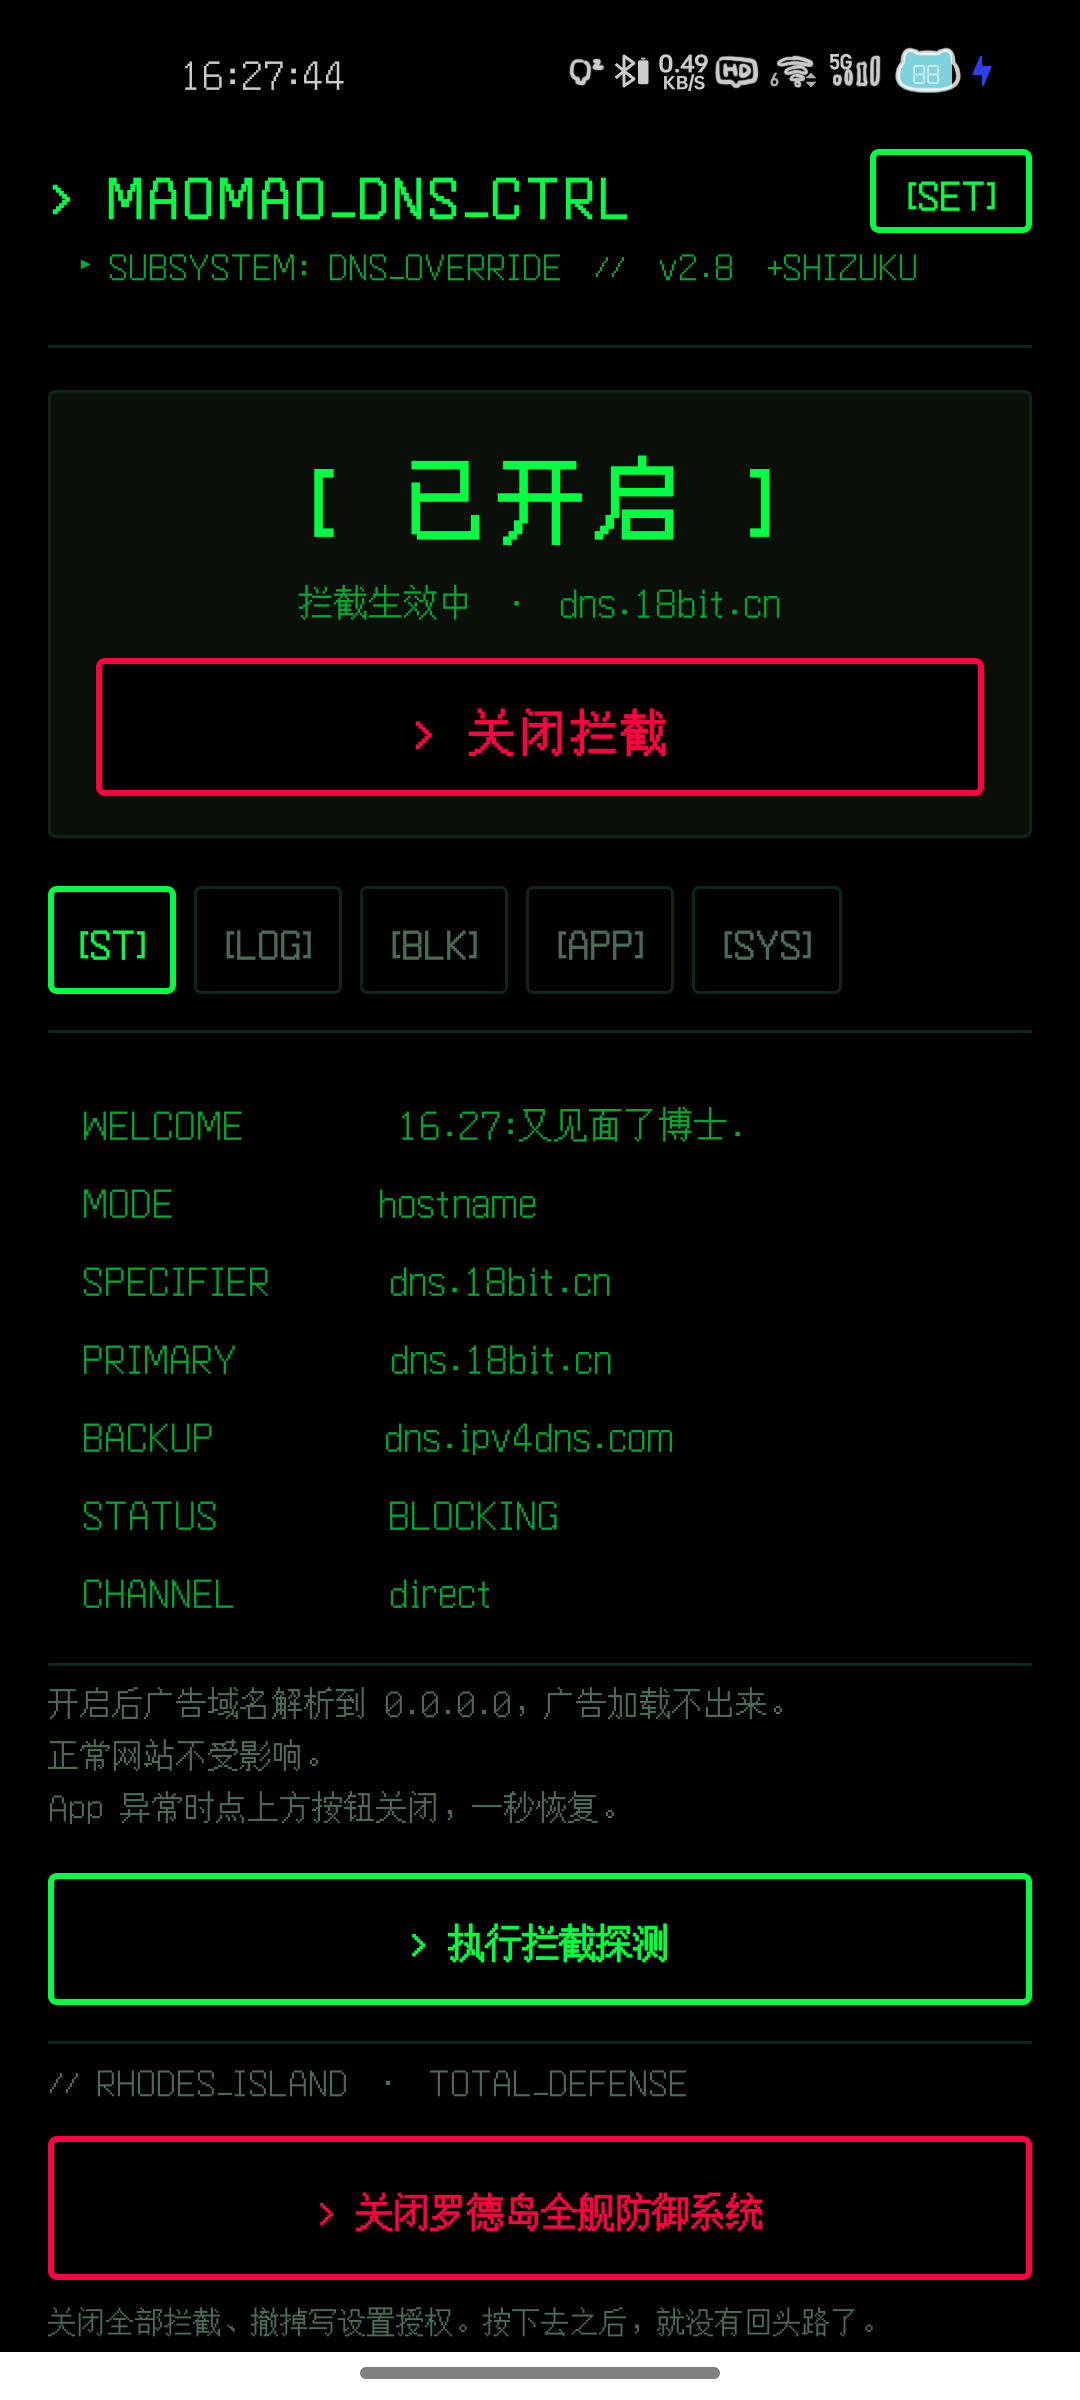
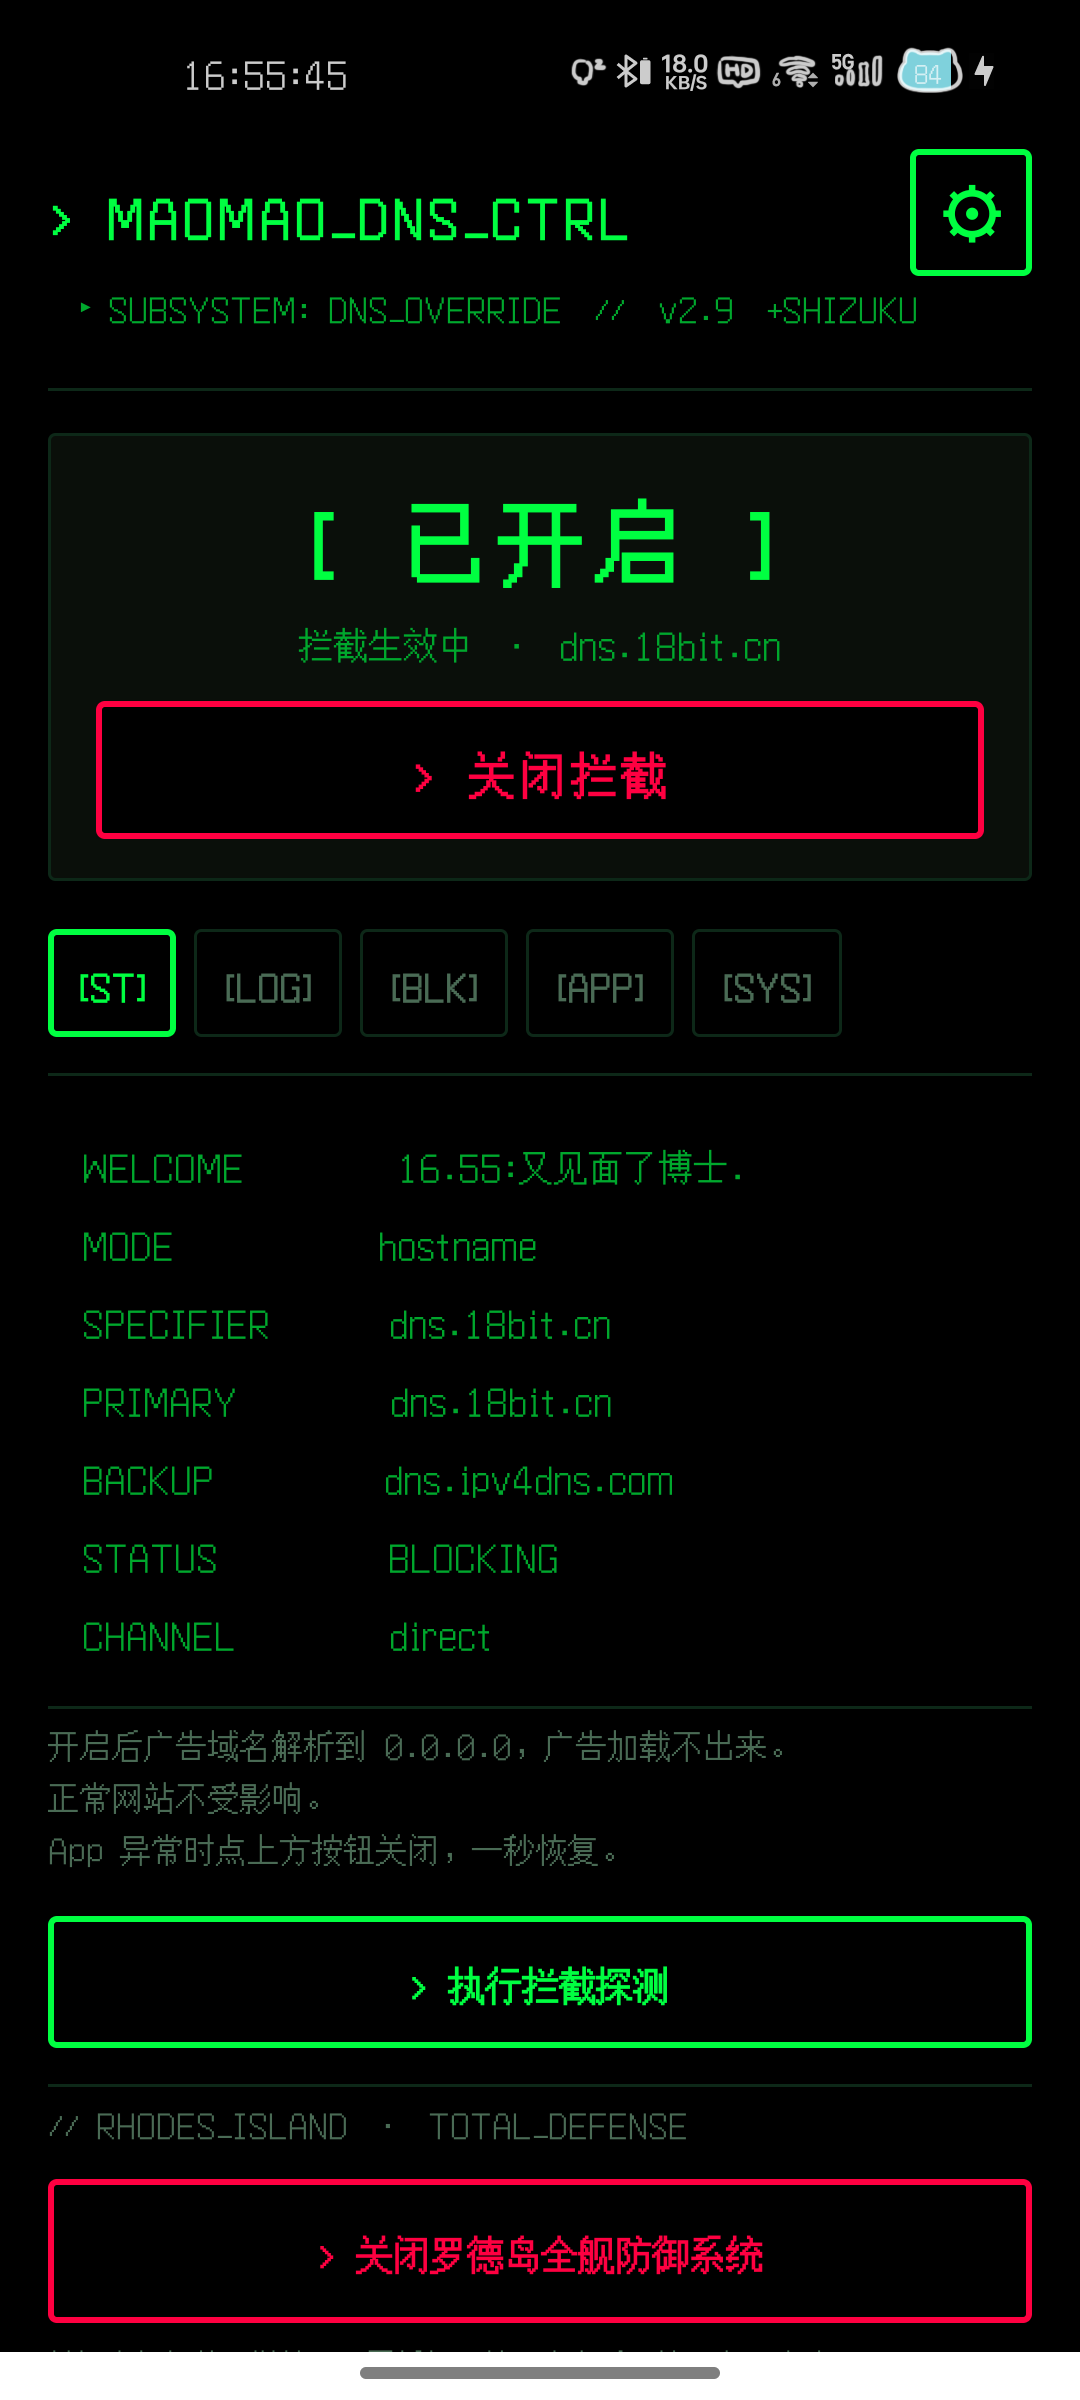
feat(v2.9): 中文模式 + 设置按钮改成齿轮图标
- 右上角 [SET] 换成齿轮图标
- 设置页新增「语言」区：一键转中文 / 切回英文，状态存 SharedPreferences
- 中文模式下主页与设置页的英文标签全部换成中文（含 YES/NO/RUNNING 等取值）
- 从设置页返回时检测语言变化，自动重建界面
- 版本号 2.9 (16)，README 与截图同步更新

diff --git a/src/com/cat/dnsswitch/MainActivity.java b/src/com/cat/dnsswitch/MainActivity.java
@@ -108,6 +108,12 @@ public class MainActivity extends Activity {
     protected void onResume() {
         super.onResume();
         refresh();
+        // 从设置页回来时中文模式可能被切了 —— 变了就整个重建界面
+        Boolean was = cnCache;
+        cnCache = null;
+        if (was != null && was.booleanValue() != isCn()) {
+            recreate();
+        }
     }
 
     // ==================== 日志导出（TXT） ====================
@@ -240,7 +246,7 @@ public class MainActivity extends Activity {
                 0, ViewGroup.LayoutParams.WRAP_CONTENT, 1f));
         topBar.addView(title);
 
-        TextView btnSet = tv("[SET]", 12, C_GREEN, true);
+        TextView btnSet = tv("\u2699", 22, C_GREEN, true);
         btnSet.setPadding(dp(10), dp(6), dp(10), dp(6));
         btnSet.setBackground(makeBox(C_BG, C_GREEN, 2, 2));
         btnSet.setOnClickListener(new View.OnClickListener() {
@@ -250,7 +256,8 @@ public class MainActivity extends Activity {
 
         root.addView(topBar);
 
-        TextView sub = tv("  ▸ SUBSYSTEM: DNS_OVERRIDE  //  v"
+        TextView sub = tv("  ▸ " + L("SUBSYSTEM: DNS_OVERRIDE", "子系统: DNS 覆盖")
+                + "  //  v"
                 + appVersion().replaceAll("\\s*\\(.*\\)$", "") + "  +SHIZUKU", 11, C_GREEN_D, false);
         sub.setPadding(0, dp(2), 0, dp(8));
         root.addView(sub);
@@ -379,13 +386,13 @@ public class MainActivity extends Activity {
         String spec = getDnsSpec();
         boolean on = "hostname".equals(mode);
 
-        contentBox.addView(kv("WELCOME", greeting()));
-        contentBox.addView(kv("MODE", mode));
-        contentBox.addView(kv("SPECIFIER", spec.isEmpty() ? "(none)" : spec));
-        contentBox.addView(kv("PRIMARY", DNS_PRIMARY));
-        contentBox.addView(kv("BACKUP", DNS_BACKUP));
-        contentBox.addView(kv("STATUS", on ? "BLOCKING" : "IDLE"));
-        contentBox.addView(kv("CHANNEL", dnsPath));
+        contentBox.addView(kv(L("WELCOME", "问候"), greeting()));
+        contentBox.addView(kv(L("MODE", "模式"), mode));
+        contentBox.addView(kv(L("SPECIFIER", "指定服务器"), spec.isEmpty() ? "(none)" : spec));
+        contentBox.addView(kv(L("PRIMARY", "主服务器"), DNS_PRIMARY));
+        contentBox.addView(kv(L("BACKUP", "备用服务器"), DNS_BACKUP));
+        contentBox.addView(kv(L("STATUS", "状态"), on ? "BLOCKING" : "IDLE"));
+        contentBox.addView(kv(L("CHANNEL", "通道"), dnsPath));
 
         contentBox.addView(divider());
 
@@ -900,8 +907,19 @@ public class MainActivity extends Activity {
         return t;
     }
 
+    /** 中文模式：由设置页那个「一键转中文」按钮控制，存在 SharedPreferences */
+    private Boolean cnCache;
+    boolean isCn() {
+        if (cnCache == null) {
+            cnCache = getSharedPreferences("prts", MODE_PRIVATE).getBoolean("cn", false);
+        }
+        return cnCache;
+    }
+    /** 英文标签 → 中文标签 */
+    private String L(String en, String zh) { return isCn() ? zh : en; }
+
     private TextView kv(String k, String v) {
-        TextView t = tv("  " + pad(k, 16) + v, 12, C_GREEN_D, false);
+        TextView t = tv("  " + pad(k, isCn() ? 10 : 16) + v, 12, C_GREEN_D, false);
         t.setPadding(0, dp(5), 0, dp(5));
         return t;
     }
@@ -1107,12 +1125,13 @@ public class MainActivity extends Activity {
         head.setPadding(0, 0, 0, dp(6));
         contentBox.addView(head);
 
-        contentBox.addView(kv("INSTALL", inst ? "YES" : "NO"));
-        contentBox.addView(kv("SERVER", run ? "RUNNING" : "STOPPED"));
-        contentBox.addView(kv("PERMISSION", ok ? "GRANTED" : (run ? "PENDING" : "N/A")));
-        contentBox.addView(kv("VERSION", run ? ("v" + ShizukuBridge.version()) : "(none)"));
-        contentBox.addView(kv("UID", ok ? String.valueOf(ShizukuBridge.uid()) : "(none)"));
-        contentBox.addView(kv("SPACE", space == 0 ? "MAIN" : ("USER_" + space)));
+        contentBox.addView(kv(L("INSTALL", "安装"), inst ? L("YES", "是") : L("NO", "否")));
+        contentBox.addView(kv(L("SERVER", "服务"), run ? L("RUNNING", "运行中") : L("STOPPED", "已停止")));
+        contentBox.addView(kv(L("PERMISSION", "授权"),
+                ok ? L("GRANTED", "已授权") : (run ? L("PENDING", "待授权") : "N/A")));
+        contentBox.addView(kv(L("VERSION", "版本"), run ? ("v" + ShizukuBridge.version()) : "(none)"));
+        contentBox.addView(kv(L("UID", "用户号"), ok ? String.valueOf(ShizukuBridge.uid()) : "(none)"));
+        contentBox.addView(kv(L("SPACE", "空间"), space == 0 ? L("MAIN", "本空间") : ("USER_" + space)));
 
         if (space != 0) {
             hint("当前这份跑在分身/壶中界空间（user " + space + "）。\n" +
@@ -1139,7 +1158,8 @@ public class MainActivity extends Activity {
         // ---- 写设置权限 ----
         contentBox.addView(divider());
         boolean wss = hasWss();
-        contentBox.addView(kv("WRITE_SETTINGS", wss ? "GRANTED" : "MISSING"));
+        contentBox.addView(kv(L("WRITE_SETTINGS", "写设置权限"),
+                wss ? L("GRANTED", "已授权") : L("MISSING", "缺失")));
         if (wss) {
             hint("开关走直连通道，不经过 Shizuku。", C_DIM);
         } else if (ok) {
@@ -1163,8 +1183,8 @@ public class MainActivity extends Activity {
         String susp = cSusp;
         String procs = cProcs;
 
-        contentBox.addView(kv("SUSPENDED", susp));
-        contentBox.addView(kv("PROCESSES", procs));
+        contentBox.addView(kv(L("SUSPENDED", "挂起状态"), susp));
+        contentBox.addView(kv(L("PROCESSES", "进程数"), procs));
 
         boolean isSusp = "YES".equals(susp);
         LinearLayout r2 = row();
@@ -1178,7 +1198,7 @@ public class MainActivity extends Activity {
         contentBox.addView(r2);
 
         String ops = cOps;
-        contentBox.addView(kv("BACKGROUND", ops));
+        contentBox.addView(kv(L("BACKGROUND", "后台限制"), ops));
 
         LinearLayout r3 = row();
         btnIn(r3, "> 压制后台", C_GREEN_D, new View.OnClickListener() {
@@ -1198,8 +1218,9 @@ public class MainActivity extends Activity {
 
         // ---- 日志导出 ----
         contentBox.addView(divider());
-        contentBox.addView(kv("LOG_LINES",
-                "RUN " + countLines("run_log") + "  /  BLOCK " + countLines("block_log")));
+        contentBox.addView(kv(L("LOG_LINES", "日志行数"),
+                L("RUN", "运行") + " " + countLines("run_log")
+                + "  /  " + L("BLOCK", "拦截") + " " + countLines("block_log")));
         btnFull("> 导出全部日志 (TXT)", C_GREEN, new View.OnClickListener() {
             @Override public void onClick(View v) { exportLog("all", "全部日志"); }
         });

diff --git a/src/com/cat/dnsswitch/SettingsActivity.java b/src/com/cat/dnsswitch/SettingsActivity.java
@@ -99,7 +99,7 @@ public class SettingsActivity extends Activity {
                 0, ViewGroup.LayoutParams.WRAP_CONTENT, 1f));
         top.addView(title);
 
-        TextView back = tv("[BACK]", 12, C_GREEN, true);
+        TextView back = tv(isCn() ? "[返回]" : "[BACK]", 12, C_GREEN, true);
         back.setPadding(dp(10), dp(6), dp(10), dp(6));
         back.setBackground(makeBox(C_BG, C_GREEN_X, 2, 1));
         back.setOnClickListener(new View.OnClickListener() {
@@ -108,7 +108,8 @@ public class SettingsActivity extends Activity {
         top.addView(back);
         page.addView(top);
 
-        TextView sub = tv("  ▸ SUBSYSTEM: CONTROL_PANEL  //  v" + verName, 11, C_GREEN_D, false);
+        TextView sub = tv("  ▸ " + L("SUBSYSTEM: CONTROL_PANEL", "子系统: 控制面板")
+                + "  //  v" + verName, 11, C_GREEN_D, false);
         sub.setPadding(0, dp(2), 0, dp(6));
         page.addView(sub);
 
@@ -136,9 +137,27 @@ public class SettingsActivity extends Activity {
         boolean ok   = run && ShizukuBridge.granted();
         int space    = ShizukuBridge.userId();
 
+        // ---------- 语言 ----------
+        box.addView(section(L("// LANGUAGE", "// 语言")));
+        box.addView(kv(L("CN_MODE", "中文模式"),
+                isCn() ? L("ON", "开启") : L("OFF", "关闭")));
+        btn(isCn() ? "> 切回英文界面" : "> 一键转中文（看不懂英文点这里）",
+                C_GREEN, new View.OnClickListener() {
+                    @Override public void onClick(View v) {
+                        boolean now = !isCn();
+                        getSharedPreferences("prts", MODE_PRIVATE)
+                                .edit().putBoolean("cn", now).apply();
+                        toast(now ? "已切换成中文" : "已切回英文");
+                        recreate();
+                    }
+                });
+        box.addView(hint(isCn()
+                ? "开了中文模式，界面上的英文标签会变成中文。随时可以切回来。"
+                : "Turn on Chinese mode if you cannot read the English labels.", C_DIM));
+
         // ---------- ROOT ----------
         box.addView(section("// ROOT"));
-        box.addView(kv("STATUS", "NOT_AVAILABLE"));
+        box.addView(kv(L("STATUS", "状态"), L("NOT_AVAILABLE", "不可用")));
         box.addView(hint("还在画图纸。点了会得到一句实话。", C_DIM));
         btn("> 请求 ROOT 权限", C_DANGER, new View.OnClickListener() {
             @Override public void onClick(View v) {
@@ -149,12 +168,13 @@ public class SettingsActivity extends Activity {
         // ---------- SHELL / SHIZUKU ----------
         box.addView(divider());
         box.addView(section("// SHELL  (SHIZUKU)"));
-        box.addView(kv("INSTALL", inst ? "YES" : "NO"));
-        box.addView(kv("SERVER", run ? "RUNNING" : "STOPPED"));
-        box.addView(kv("PERMISSION", ok ? "GRANTED" : (run ? "PENDING" : "N/A")));
-        box.addView(kv("VERSION", run ? ("v" + ShizukuBridge.version()) : "(none)"));
-        box.addView(kv("UID", ok ? String.valueOf(ShizukuBridge.uid()) : "(none)"));
-        box.addView(kv("SPACE", space == 0 ? "MAIN" : ("USER_" + space)));
+        box.addView(kv(L("INSTALL", "安装"), inst ? L("YES", "是") : L("NO", "否")));
+        box.addView(kv(L("SERVER", "服务"), run ? L("RUNNING", "运行中") : L("STOPPED", "已停止")));
+        box.addView(kv(L("PERMISSION", "授权"),
+                ok ? L("GRANTED", "已授权") : (run ? L("PENDING", "待授权") : "N/A")));
+        box.addView(kv(L("VERSION", "版本"), run ? ("v" + ShizukuBridge.version()) : "(none)"));
+        box.addView(kv(L("UID", "用户号"), ok ? String.valueOf(ShizukuBridge.uid()) : "(none)"));
+        box.addView(kv(L("SPACE", "空间"), space == 0 ? L("MAIN", "本空间") : ("USER_" + space)));
 
         if (space != 0) {
             box.addView(hint("当前这份跑在分身/壶中界空间（user " + space + "）。\n" +
@@ -257,18 +277,24 @@ public class SettingsActivity extends Activity {
         foot.setPadding(0, dp(12), 0, 0);
         box.addView(foot);
 
-        TextView ver = tv("VERSION   v" + verName + "  (" + verCode + ")", 11, C_DIM, false);
+        TextView ver = tv(L("VERSION", "版本") + "   v" + verName + "  (" + verCode + ")", 11, C_DIM, false);
         ver.setGravity(Gravity.CENTER);
         ver.setPadding(0, dp(6), 0, 0);
         box.addView(ver);
 
-        TextView author = tv("AUTHOR    猫猫  ·  愚鸟", 13, C_GREEN, true);
+        TextView author = tv(L("AUTHOR", "作者") + "    猫猫  ·  愚鸟", 13, C_GREEN, true);
         author.setGravity(Gravity.CENTER);
         author.setPadding(0, dp(6), 0, dp(24));
         box.addView(author);
     }
 
     // ==================== 小工具 ====================
+
+    /** 中文模式：设置页里「一键转中文」按钮控制的全局开关 */
+    private boolean isCn() {
+        return getSharedPreferences("prts", MODE_PRIVATE).getBoolean("cn", false);
+    }
+    private String L(String en, String zh) { return isCn() ? zh : en; }
 
     private TextView section(String s) {
         TextView t = tv(s, 11, C_GREEN_D, false);
@@ -321,7 +347,7 @@ public class SettingsActivity extends Activity {
     }
 
     private TextView kv(String k, String v) {
-        TextView t = tv("  " + pad(k, 16) + v, 12, C_GREEN_D, false);
+        TextView t = tv("  " + pad(k, isCn() ? 10 : 16) + v, 12, C_GREEN_D, false);
         t.setPadding(0, dp(5), 0, dp(5));
         return t;
     }

diff --git a/README.md b/README.md
@@ -4,7 +4,7 @@
 
 **Android 私人 DNS 广告拦截 · Shizuku 命令通道 · 终端风格界面**
 
-`v2.8.1` · `versionCode 15` · Android 7.0+ · 180 KB
+`v2.9` · `versionCode 16` · Android 7.0+ · 180 KB
 
 [**⬇ 下载 APK**](https://github.com/mnbvcxz424/prts-virus/releases/latest) &nbsp;·&nbsp; [使用说明](#使用说明) &nbsp;·&nbsp; [常见问题](#常见问题)
 
@@ -28,6 +28,7 @@
 | **运行日志** | 每一次开关、探测、导出都留痕，42 条起步 |
 | **日志导出** | 通过系统文件选择器存成 TXT，不需要存储权限 |
 | **应用规则** | 按 App 单独设置，无障碍服务实现 |
+| **中文模式** | 设置页一键切换，英文标签全变中文 —— 看不懂英文也能用 |
 | **彩蛋** | 主界面最下面那个红框按钮 …… 按下去就没有回头路了 |
 
 ## 界面
@@ -35,6 +36,12 @@
 | 设置页 | 运行日志 |
 |---|---|
 | ![设置](docs/screenshots/settings.png) | ![日志](docs/screenshots/log.png) |
+
+### 中文模式
+
+右上角齿轮 → 设置 → 语言 → 一键转中文。英文标签会全部换成中文，随时可以切回去。
+
+![中文模式](docs/screenshots/cn-mode.png)
 
 ## 能拦什么，拦不住什么
 
@@ -53,7 +60,7 @@
 
 1. 打开 [Releases](https://github.com/mnbvcxz424/prts-virus/releases/latest)，下载 `.apk`
 2. 手机上点开安装（要允许「安装未知应用」）
-3. 打开后进右上角 `[SET]`，先把**使用说明**那六段读完
+3. 打开后进右上角**齿轮 ⚙**，先把**使用说明**那六段读完；看不懂英文就点「一键转中文」
 
 ## 使用说明
 
